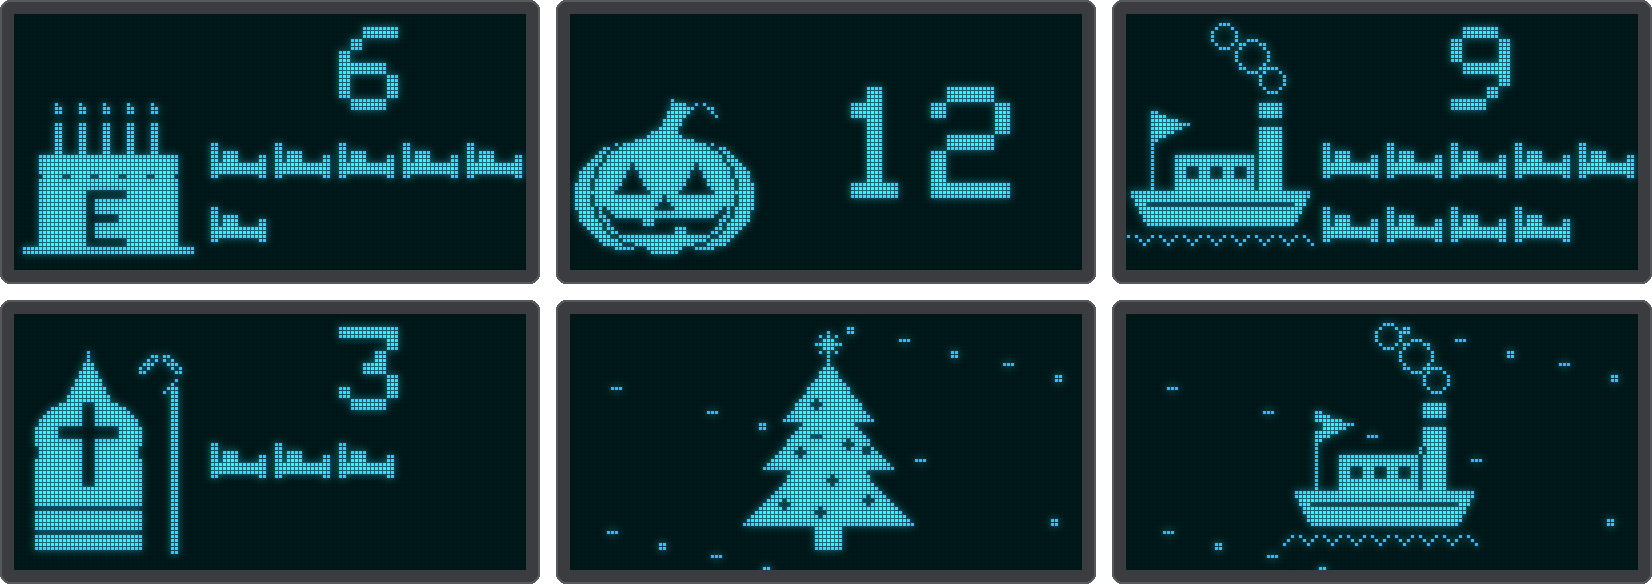
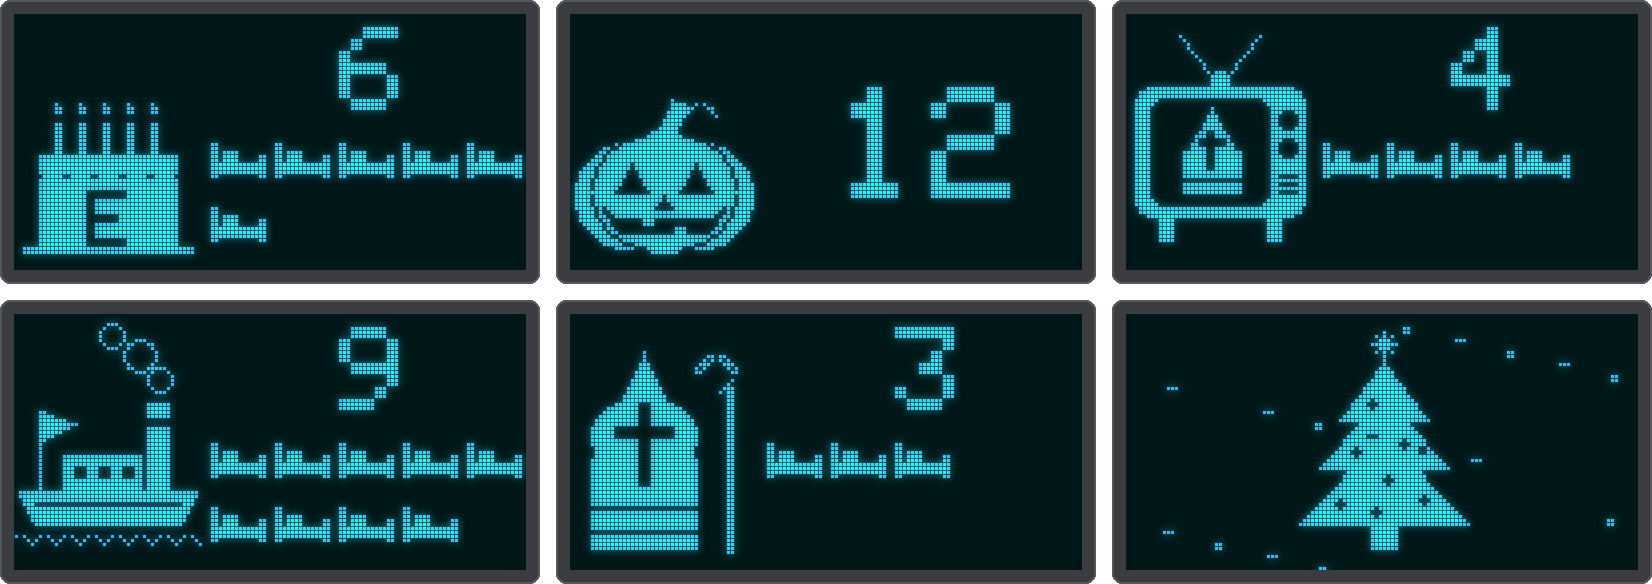
Countdown to the first Sinterklaasjournaal
Its first broadcast is announced every year, so its date is entered in the web UI under Countdowns
(config kids.journaal, YYYY-MM-DD; empty = none). It counts down once, until that day has passed, with a
television showing Sinterklaas' mitre. nextKidsCountdown() takes the date as a KidsDate.

Claude-Session: https://claude.ai/code/session_01BgTn1WcpSUXFywgbLdTvzG

diff --git a/firmware/src/webserver.cpp b/firmware/src/webserver.cpp
@@ -211,6 +211,7 @@ static const char index_html[] PROGMEM = R"HTML(
             <span class="label">Birthday 2:</span> <input name="birthday2" type="date"> <input name="initial2" class="letter" maxlength="1" pattern="[A-Za-z]?" title="one letter"> <small>no date = none</small><br>
             <span class="label">Halloween (31 Oct):</span> <input name="halloween" type="checkbox"><br>
             <span class="label">Sinterklaas arrives:</span> <input name="intocht" type="checkbox"> <small>the intocht, a Saturday mid-November</small><br>
+            <label class="label" for="journaalInput">Sinterklaasjournaal:</label> <input id="journaalInput" name="journaal" type="date"> <small>first broadcast; no date = none</small><br>
             <span class="label">Sinterklaas (5 Dec):</span> <input name="sinterklaas" type="checkbox"><br>
             <span class="label">Christmas (25 Dec):</span> <input name="christmas" type="checkbox"><br>
             <span class="label">Show from (sleeps before):</span> <input name="countdownDays" type="number" step="1" min="1" max="60"><br>
@@ -435,6 +436,7 @@ static const char index_html[] PROGMEM = R"HTML(
                     c.halloween.checked = s.kids.halloween;
                     c.sinterklaas.checked = s.kids.sinterklaas;
                     c.intocht.checked = s.kids.intocht;
+                    c.journaal.value = s.kids.journaal || '';
                     c.christmas.checked = s.kids.christmas;
                     c.countdownDays.value = s.kids.countdownDays;
 
@@ -905,6 +907,13 @@ static void handleApiStatus() {
     kids["intocht"] = (kidsHolidays & KIDS_HOLIDAY(KIDS_EVENT_INTOCHT)) != 0;
     kids["christmas"] = (kidsHolidays & KIDS_HOLIDAY(KIDS_EVENT_CHRISTMAS)) != 0;
     kids["countdownDays"] = kidsCountdownDays;
+    if (kidsJournaal.month != 0) {
+        char date[11];
+        snprintf(date, sizeof(date), "%04d-%02d-%02d", kidsJournaal.year, kidsJournaal.month, kidsJournaal.day);
+        kids["journaal"] = date;
+    } else {
+        kids["journaal"] = "";
+    }
 
     JsonObject display = doc["display"].to<JsonObject>();
     display["previewHr"] = previewHr;
@@ -1066,6 +1075,13 @@ static void handleApiCountdown() {
         }
         b[i].initial = kidsInitial(server.arg("initial" + n).c_str());
     }
+    KidsDate journaal = {};
+    String journaalDate = server.arg("journaal");
+    journaalDate.trim();
+    if (journaalDate.length() != 0 && !parseIsoDate(journaalDate.c_str(), journaal.year, journaal.month, journaal.day)) {
+        sendMessage(400, "Invalid Sinterklaasjournaal date (YYYY-MM-DD)");
+        return;
+    }
     unsigned holidays = 0;
     if (server.hasArg("halloween")) holidays |= KIDS_HOLIDAY(KIDS_EVENT_HALLOWEEN);
     if (server.hasArg("sinterklaas")) holidays |= KIDS_HOLIDAY(KIDS_EVENT_SINTERKLAAS);
@@ -1085,6 +1101,7 @@ static void handleApiCountdown() {
         doc["kids"]["intocht"] = (holidays & KIDS_HOLIDAY(KIDS_EVENT_INTOCHT)) != 0;
         doc["kids"]["christmas"] = (holidays & KIDS_HOLIDAY(KIDS_EVENT_CHRISTMAS)) != 0;
         doc["kids"]["countdownDays"] = days;
+        doc["kids"]["journaal"] = journaalDate;   // "" = none
     });
     if (!saved) {
         sendMessage(500, "Could not save configuration");
@@ -1093,6 +1110,7 @@ static void handleApiCountdown() {
     memcpy(kidsBirthdays, b, sizeof(kidsBirthdays));
     kidsHolidays = holidays;
     kidsCountdownDays = days;
+    kidsJournaal = journaal;
     state.displayDirty = true;
     sendMessage(200, "Countdowns saved");
 }

diff --git a/firmware/src/display.cpp b/firmware/src/display.cpp
@@ -1731,6 +1731,27 @@ static void drawSteamboat(Adafruit_SSD1306 &d, int cx) {
     }
 }
 
+// A television with Sinterklaas' mitre on the screen, for the first Sinterklaasjournaal
+static void drawTelevision(Adafruit_SSD1306 &d, int cx) {
+    d.drawLine(cx - 2, 15, cx - 10, 5, SSD1306_WHITE);               // antenna
+    d.drawLine(cx + 2, 15, cx + 10, 5, SSD1306_WHITE);
+    d.fillCircle(cx, 16, 2, SSD1306_WHITE);
+    d.fillRoundRect(cx - 21, 18, 43, 33, 4, SSD1306_WHITE);          // the set
+    d.fillRoundRect(cx - 17, 21, 30, 27, 3, SSD1306_BLACK);          // the screen
+    d.fillCircle(cx + 17, 26, 2, SSD1306_BLACK);                     // knobs
+    d.fillCircle(cx + 17, 33, 2, SSD1306_BLACK);
+    d.fillRect(cx + 15, 40, 5, 6, SSD1306_BLACK);                    // speaker
+    for (int y = 41; y <= 45; y += 2) d.drawFastHLine(cx + 15, y, 5, SSD1306_WHITE);
+    d.fillRect(cx - 15, 51, 4, 6, SSD1306_WHITE);                    // feet
+    d.fillRect(cx + 12, 51, 4, 6, SSD1306_WHITE);
+    int mx = cx - 2;                                                 // the mitre on the screen
+    d.fillRect(mx - 7, 34, 15, 11, SSD1306_WHITE);
+    d.fillTriangle(mx - 7, 35, mx + 7, 35, mx, 23, SSD1306_WHITE);
+    d.fillRect(mx - 1, 29, 2, 10, SSD1306_BLACK);                    // cross
+    d.fillRect(mx - 3, 31, 7, 2, SSD1306_BLACK);
+    d.drawFastHLine(mx - 7, 41, 15, SSD1306_BLACK);                  // band
+}
+
 // Christmas tree with a star on top and baubles
 static void drawTree(Adafruit_SSD1306 &d, int cx) {
     d.fillTriangle(cx, 11, cx - 11, 26, cx + 11, 26, SSD1306_WHITE);
@@ -1751,6 +1772,7 @@ static void drawEvent(Adafruit_SSD1306 &d, int cx, const KidsCountdown &c) {
     case KIDS_EVENT_SINTERKLAAS: drawMitre(d, cx); break;
     case KIDS_EVENT_CHRISTMAS:   drawTree(d, cx); break;
     case KIDS_EVENT_INTOCHT:     drawSteamboat(d, cx); break;
+    case KIDS_EVENT_JOURNAAL:    drawTelevision(d, cx); break;
     default:                     drawCake(d, cx, c.age, c.initial); break;
     }
 }

diff --git a/firmware/lib/motologic/motologic.h b/firmware/lib/motologic/motologic.h
@@ -237,6 +237,7 @@ size_t kidsPartTimeline(const KidsHour* hours, const KidsPart& part, const KidsL
 #define KIDS_EVENT_SINTERKLAAS  2   // 5 December (pakjesavond)
 #define KIDS_EVENT_CHRISTMAS    3   // 25 December
 #define KIDS_EVENT_INTOCHT      4   // Sinterklaas arrives in the Netherlands: the Saturday of 12-18 November
+#define KIDS_EVENT_JOURNAAL     5   // the first Sinterklaasjournaal of the year: a date set in the web UI
 #define KIDS_HOLIDAY(kind)      (1u << (kind))   // bit of a holiday in the `holidays` mask
 #define KIDS_ALL_HOLIDAYS       (KIDS_HOLIDAY(KIDS_EVENT_HALLOWEEN) | KIDS_HOLIDAY(KIDS_EVENT_SINTERKLAAS) | \
                                  KIDS_HOLIDAY(KIDS_EVENT_CHRISTMAS) | KIDS_HOLIDAY(KIDS_EVENT_INTOCHT))
@@ -275,10 +276,16 @@ int daysUntilNext(int year, int month, int day, int onMonth, int onDay, int& occ
 // as in every year from 2019 to 2025
 int sinterklaasArrivalDay(int year);
 
+// A single date (month 0 = not set)
+struct KidsDate {
+    int year, month, day;
+};
+
 // The nearest birthday or enabled holiday (KIDS_HOLIDAY mask) within `withinDays` sleeps from today; a
-// birthday wins a tie. Birthdays that are not set, or lie in the future, are skipped.
+// birthday wins a tie. Birthdays that are not set, or lie in the future, are skipped. `journaal` is the date
+// of the first Sinterklaasjournaal: it counts only once, until that day has passed.
 KidsCountdown nextKidsCountdown(int year, int month, int day, const KidsBirthday* birthdays, size_t count,
-                                unsigned holidays, int withinDays);
+                                unsigned holidays, int withinDays, KidsDate journaal = KidsDate{ 0, 0, 0 });
 
 // Map an Open-Meteo WMO weather code (plus wind) to a display condition
 int mapWeatherCode(int code, float windKmh, float warnWindKmh);

diff --git a/test/test_logic/test_logic.cpp b/test/test_logic/test_logic.cpp
@@ -923,6 +923,23 @@ void test_sinterklaas_arrival() {
     TEST_ASSERT_EQUAL_INT(363, c.sleeps);                            // to 13 November 2027
 }
 
+void test_sinterklaasjournaal() {
+    KidsDate j = { 2026, 11, 7 };                                    // the first broadcast this year
+    KidsCountdown c = nextKidsCountdown(2026, 10, 28, nullptr, 0, 0, 14, j);
+    TEST_ASSERT_TRUE(c.active);
+    TEST_ASSERT_EQUAL_INT(KIDS_EVENT_JOURNAAL, c.kind);
+    TEST_ASSERT_EQUAL_INT(10, c.sleeps);
+    TEST_ASSERT_EQUAL_INT(0, nextKidsCountdown(2026, 11, 7, nullptr, 0, 0, 14, j).sleeps);
+    TEST_ASSERT_FALSE(nextKidsCountdown(2026, 11, 8, nullptr, 0, 0, 365, j).active);   // once, not yearly
+    TEST_ASSERT_FALSE(nextKidsCountdown(2026, 10, 1, nullptr, 0, 0, 14, j).active);    // not yet in range
+    TEST_ASSERT_FALSE(nextKidsCountdown(2026, 10, 28, nullptr, 0, 0, 14, KidsDate{ 0, 0, 0 }).active);
+    // before the arrival (14 November) the journaal comes first; after it, the arrival
+    c = nextKidsCountdown(2026, 11, 5, nullptr, 0, KIDS_ALL_HOLIDAYS, 14, j);
+    TEST_ASSERT_EQUAL_INT(KIDS_EVENT_JOURNAAL, c.kind);
+    c = nextKidsCountdown(2026, 11, 8, nullptr, 0, KIDS_ALL_HOLIDAYS, 14, j);
+    TEST_ASSERT_EQUAL_INT(KIDS_EVENT_INTOCHT, c.kind);
+}
+
 void test_countdown_settings() {
     KidsBirthday b[2] = { { 2020, 10, 31, 'A' }, { 0, 0, 0, 0 } };   // the second one is not set
     // a birthday wins a tie with a holiday
@@ -1157,6 +1174,7 @@ int main(int, char**) {
     RUN_TEST(test_days_until_next);
     RUN_TEST(test_countdown_picks_the_nearest_event);
     RUN_TEST(test_sinterklaas_arrival);
+    RUN_TEST(test_sinterklaasjournaal);
     RUN_TEST(test_countdown_settings);
     RUN_TEST(test_kids_weather);
     RUN_TEST(test_weather_codes);

diff --git a/firmware/lib/motologic/motologic.cpp b/firmware/lib/motologic/motologic.cpp
@@ -811,7 +811,7 @@ int sinterklaasArrivalDay(int year) {
 }
 
 KidsCountdown nextKidsCountdown(int year, int month, int day, const KidsBirthday* birthdays, size_t count,
-                                unsigned holidays, int withinDays) {
+                                unsigned holidays, int withinDays, KidsDate journaal) {
     KidsCountdown best = { false, 0, 0, 0, 0 };
     for (size_t i = 0; i < count; i++) {
         const KidsBirthday& b = birthdays[i];
@@ -832,6 +832,12 @@ KidsCountdown nextKidsCountdown(int year, int month, int day, const KidsBirthday
         int sleeps = daysUntilNext(year, month, day, h[1], h[2], when);
         if (sleeps <= withinDays && (!best.active || sleeps < best.sleeps)) {
             best = { true, h[0], sleeps, 0, 0 };
+        }
+    }
+    if (journaal.month >= 1 && journaal.month <= 12 && journaal.day >= 1) {   // a one-off date
+        long sleeps = daysFromCivil(journaal.year, journaal.month, journaal.day) - daysFromCivil(year, month, day);
+        if (sleeps >= 0 && sleeps <= withinDays && (!best.active || sleeps < best.sleeps)) {
+            best = { true, KIDS_EVENT_JOURNAAL, (int)sleeps, 0, 0 };
         }
     }
     if (holidays & KIDS_HOLIDAY(KIDS_EVENT_INTOCHT)) {                 // a different date every year

diff --git a/firmware/src/main.cpp b/firmware/src/main.cpp
@@ -206,6 +206,8 @@ void loadConfig() {
             if (o[HOLIDAY_KEYS[i]]) kidsHolidays |= KIDS_HOLIDAY(HOLIDAY_KINDS[i]);
             else kidsHolidays &= ~KIDS_HOLIDAY(HOLIDAY_KINDS[i]);
         }
+        KidsDate j = {};
+        if (parseIsoDate(o["journaal"] | "", j.year, j.month, j.day)) kidsJournaal = j;
         if (o["countdownDays"].is<int>()) kidsCountdownDays = constrain((int)o["countdownDays"], 1, KIDS_MAX_COUNTDOWN_DAYS);
     }
 
@@ -476,7 +478,7 @@ static KidsCountdown kidsCountdownNow() {
     time_t local = time(nullptr) + utcOffsetSeconds;
     gmtime_r(&local, &t);
     return nextKidsCountdown(t.tm_year + 1900, t.tm_mon + 1, t.tm_mday, kidsBirthdays, KIDS_MAX_BIRTHDAYS,
-                             kidsHolidays, kidsCountdownDays);
+                             kidsHolidays, kidsCountdownDays, kidsJournaal);
 }
 
 /**

diff --git a/tools/webui_screenshots.py b/tools/webui_screenshots.py
@@ -32,7 +32,7 @@ STATUS = {
     "kids": {"hotFromC": 25, "shortsFromC": 20, "sweaterBelowC": 15, "coatBelowC": 5, "freezeBelowC": 0,
              "windyGustKmh": 50, "birthdays": [{"date": "2021-11-02", "initial": "E"},
                                                {"date": "2019-12-20", "initial": "S"}],
-             "halloween": True, "intocht": True, "sinterklaas": True, "christmas": True, "countdownDays": 14},
+             "journaal": "2026-11-07", "halloween": True, "intocht": True, "sinterklaas": True, "christmas": True, "countdownDays": 14},
     "lat": 52.37, "lon": 4.89, "locationSource": "Manual Selection",
     "locationName": "Amsterdam, Noord-Holland, Nederland",
     "thresholds": {"maxRainMm": 2.0, "maxWindKmh": 60, "minTempC": 5, "warnWindKmh": 40, "rainProbPct": 50},

diff --git a/tools/screenshots_host/screens.cpp b/tools/screenshots_host/screens.cpp
@@ -201,10 +201,10 @@ static void countdowns() {
     const KidsCountdown c[6] = {
         { true, KIDS_EVENT_BIRTHDAY, 6, 5, 'E' },
         { true, KIDS_EVENT_HALLOWEEN, 12, 0, 0 },
+        { true, KIDS_EVENT_JOURNAAL, 4, 0, 0 },
         { true, KIDS_EVENT_INTOCHT, 9, 0, 0 },
         { true, KIDS_EVENT_SINTERKLAAS, 3, 0, 0 },
         { true, KIDS_EVENT_CHRISTMAS, 0, 0, 0 },
-        { true, KIDS_EVENT_INTOCHT, 0, 0, 0 },
     };
     for (int i = 0; i < 6; i++) {
         renderKidsCountdown(d, c[i], hostMillis);

diff --git a/firmware/include/weather.h b/firmware/include/weather.h
@@ -47,6 +47,7 @@ extern bool kidsUmbrella;   // an umbrella with the outfit for a shower
 extern KidsBirthday kidsBirthdays[KIDS_MAX_BIRTHDAYS];
 extern unsigned kidsHolidays;
 extern int kidsCountdownDays;
+extern KidsDate kidsJournaal;   // the first Sinterklaasjournaal (config kids.journaal), month 0 = not set
 
 // Ride windows (from config.json): weekday / weekend, morning / evening
 extern RideWindow weekdayAM, weekdayPM, weekendAM, weekendPM;

diff --git a/firmware/src/weather.cpp b/firmware/src/weather.cpp
@@ -60,6 +60,7 @@ bool kidsUmbrella = KIDS_UMBRELLA;
 KidsBirthday kidsBirthdays[KIDS_MAX_BIRTHDAYS] = {};
 unsigned kidsHolidays = KIDS_ALL_HOLIDAYS;
 int kidsCountdownDays = KIDS_COUNTDOWN_DAYS;
+KidsDate kidsJournaal = {};   // the first Sinterklaasjournaal; month 0 = not set
 
 // Ride windows (start hour, length in hours); overridden by config.json
 RideWindow weekdayAM = { 7, 2 };

diff --git a/docs/kids.md b/docs/kids.md
@@ -171,12 +171,13 @@ the left and the number of sleeps (nights) still to go on the right. With ten sl
 row of beds to count, one for every night, so one goes away each morning. On the day itself the picture stands
 in the middle with confetti falling around it.
 
-![Countdown screens: a birthday cake with five candles and the letter E, six sleeps to go; a pumpkin, twelve sleeps to Halloween; Sinterklaas' steamboat, nine sleeps to his arrival; his mitre and staff, three sleeps; Christmas day, a tree with confetti; the day the steamboat arrives, with confetti](images/kids-countdown.png){ .center }
+![Countdown screens: a birthday cake with five candles and the letter E, six sleeps to go; a pumpkin, twelve sleeps to Halloween; a television with the mitre, four sleeps to the Sinterklaasjournaal; Sinterklaas' steamboat, nine sleeps to his arrival; his mitre and staff, three sleeps; Christmas day, a tree with confetti](images/kids-countdown.png){ .center }
 
 | Day | Picture |
 |-----|---------|
 | birthday (two can be set) | a cake with a candle for every year it turns (10 and older: the age as a number) and the child's letter on it |
 | Halloween, 31 October | a pumpkin |
+| the first Sinterklaasjournaal, on the date you enter (it changes every year) | a television with the mitre on it |
 | Sinterklaas arrives (the intocht), the Saturday of 12-18 November | his steamboat |
 | Sinterklaas (pakjesavond), 5 December | the mitre and staff |
 | Christmas, 25 December | a Christmas tree |
@@ -196,7 +197,7 @@ shorts limit has no t-shirt step. They are saved in `config.json` (the `kids` ke
 the **night column** and the **umbrella for showers** on (both off by default).
 
 Under *Countdowns* you enter the two birthdays (the date of birth, for the number of candles, and a
-letter for the cake), switch Halloween, Sinterklaas' arrival, Sinterklaas and Christmas on or off, and set from how many sleeps
+letter for the cake), enter the date of the first Sinterklaasjournaal (it counts down once, to that date), switch Halloween, Sinterklaas' arrival, Sinterklaas and Christmas on or off, and set from how many sleeps
 before the day the countdown starts.
 
 The other hours of the parts of the day (morning 7, afternoon 12, bedtime 22) are compile-time settings

diff --git a/docs/configuration.md b/docs/configuration.md
@@ -27,6 +27,7 @@ The web UI edits this file; you can also edit it before `uploadfs`. Unknown keys
 | `kids.umbrella` | an umbrella with the outfit on the picture screens for a shower, less than 70% of the hours wet (default false) |
 | `kids.nightColumn` | after dinner the picture screens show dinner, the night and tomorrow morning (default false) |
 | `kids.birthdays` | countdown: up to two `[{"date": "YYYY-MM-DD", "initial": "E"}]`, the date of birth and the letter on the cake (A-Z, may be empty) |
+| `kids.journaal` | countdown: the date of the first Sinterklaasjournaal, `YYYY-MM-DD` (counts down once; `""` = none) |
 | `kids.halloween`, `kids.intocht`, `kids.sinterklaas`, `kids.christmas` | countdown: count down to 31 October, Sinterklaas' arrival (the Saturday of 12-18 November), 5 December and 25 December (default `true`) |
 | `kids.countdownDays` | countdown: shows from this many sleeps before the day, 1-60 (default 14) |
 | `wd_am`, `wd_pm` | weekday morning / evening ride window: `[start hour, hours]` |
